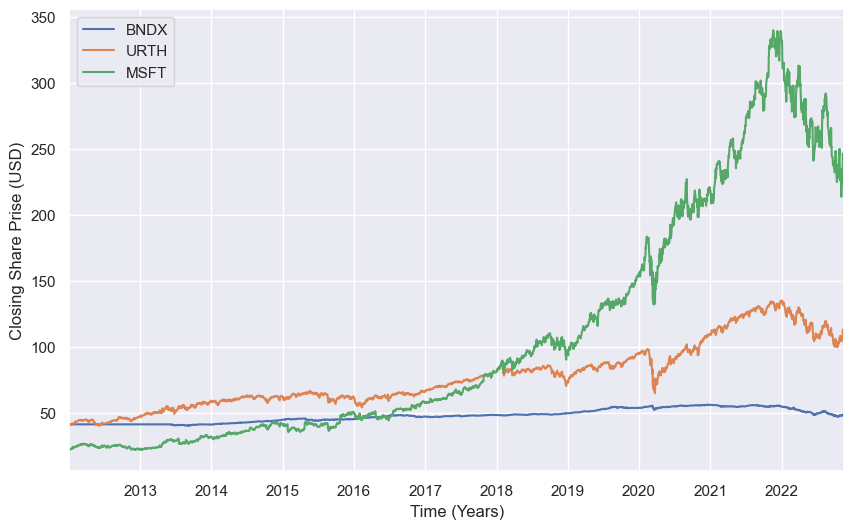
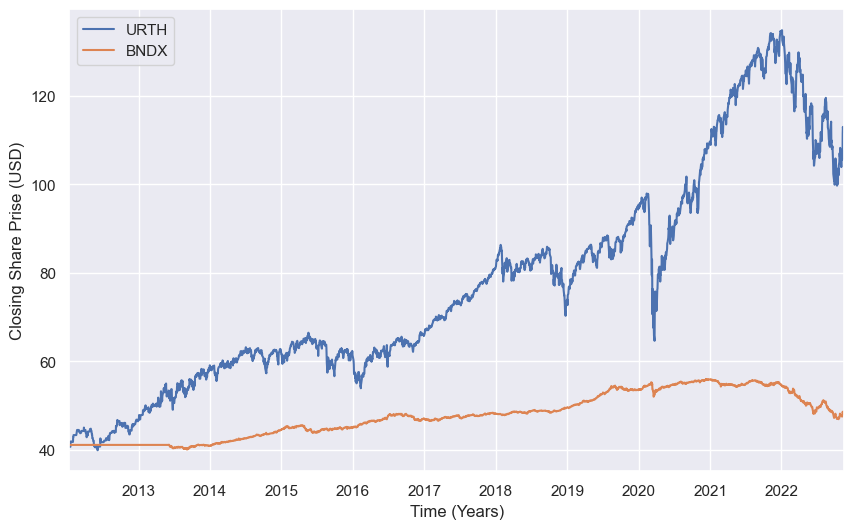
environment update

diff --git a/src/agents/PPO.py b/src/agents/PPO.py
@@ -14,7 +14,7 @@ if True:
 
 sns.set_theme()
 
-tickers = ['BNDX', 'URTH', 'MSFT']
+tickers = ['URTH', 'BNDX']
 start_date = '2012-01-01'
 end_date = "2022-11-20"
 df = pdr.get_data_yahoo([tickers][0], start=start_date, end=end_date)
@@ -26,7 +26,7 @@ data['Adj Close'] = data['Adj Close'].bfill()
 df = df.bfill(axis=1)
 data = data['Adj Close']
 
-train_pct = 0.7
+train_pct = 0.8
 samples_train = int(train_pct*len(data))
 # print(len(data))
 data_train = data[:samples_train]
@@ -45,14 +45,17 @@ plt.savefig('StockPrice.png', bbox_inches='tight')
 
 # start training and predicting
 runs = 5
-timesteps = 25000
+timesteps = 4000
 
-max_trade = 1000
-balance = 10000
+max_trade = 10
+balance = 1000
 transaction_fee = 0.001
 
 
 def train():
+    max_trade = 10
+    balance = 1000
+    transaction_fee = 0.001
     policy = "MlpPolicy"
     train_env = DummyVecEnv([lambda: StockEnv(df=data_train)])
     model = PPO(policy, train_env, verbose=1)
@@ -65,6 +68,9 @@ def train():
 
 
 def predict():
+    max_trade = 10
+    balance = 1000
+    transaction_fee = 0.001
     actions_memory = []
     env = DummyVecEnv([lambda: StockEnv(df=data_test)])
     obs = env.reset()
@@ -83,9 +89,6 @@ portfolio_weights_ppo = np.zeros([runs, length, stocks])
 
 i = 0
 while (i < runs):
-    max_trade = 1000
-    balance = 10000
-    transaction_fee = 0.001
     ppo = train()
     portfolio_weights_ppo[i] = np.array(predict())
     return_stocks = data_test.pct_change()

diff --git a/src/envs/StockTrading.py b/src/envs/StockTrading.py
@@ -12,7 +12,7 @@ from gym import spaces
 
 from stable_baselines3.common.vec_env import DummyVecEnv
 
-max_trade = 30
+max_trade = 50
 balance = 10000
 transaction_fee = 0.001
 
@@ -45,8 +45,11 @@ class StockEnv(gym.Env):
 
     def buy(self, index, action):
         action = np.floor(action)
-        self.state[0] -= self.state[index+1] * action * (1 + transaction_fee)
-        self.state[index+self.stock_dim+1] += action
+        max_action = max(
+            self.state[0]//(self.state[index+1] * (1 + transaction_fee)), action)
+        self.state[0] -= self.state[index+1] * \
+            max_action * (1 + transaction_fee)
+        self.state[index+self.stock_dim+1] += max_action
 
     def step(self, actions):
         self.terminal = (self.day >= len(self.df.index.unique())-1)
@@ -70,6 +73,14 @@ class StockEnv(gym.Env):
 
             for index in buy_index:
                 self.buy(index, actions[index])
+
+            # force buy with balance (equal weight to stocks)
+            if(self.state[0] > 0):
+                cash_div = self.state[0]/self.stock_dim
+                for i in range(self.stock_dim):
+                    autoaction = cash_div//(self.state[i+1]
+                                            * (1 + transaction_fee))
+                    self.buy(i, autoaction)
 
             self.day += 1
             self.data = self.df.iloc[self.day, :]

diff --git a/src/agents/test.py b/src/agents/test.py
@@ -1,17 +1,19 @@
 
 import time
 import sys
-sys.path.append("..")
 import gym
 from stable_baselines3.common.env_checker import check_env
 from pandas_datareader import data as pdr
-from envs.StockTrading import StockEnv
+if True:
+    sys.path.append("..")
+    from envs.StockTrading import StockEnv
+
 
 tickers = ['BNDX', 'URTH']
-start_date = '2019-01-01'
+start_date = '2012-01-01'
 end_date = "2022-11-20"
 df = pdr.get_data_yahoo([tickers][0], start=start_date, end=end_date)
-
+print(df.shape)
 # remove NaN values
 data = df.copy()
 data['Adj Close'] = data['Adj Close'].ffill()
